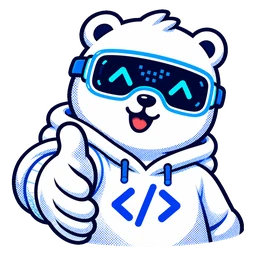
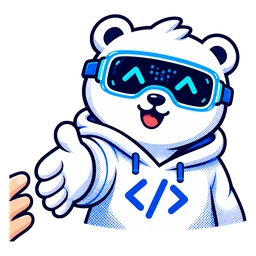
feat(art): 商談の絵を握手に、展示会の待ち画面のクマを他と同じ画風に作り直し、見本のページを preview でも開けるようにする

diff --git a/src/app/shell-sample/page.tsx b/src/app/shell-sample/page.tsx
@@ -1,5 +1,6 @@
 // 開発用の見本: 部署別の枠（7項目のサイドバー・経営ホーム・マーケ部のページ・スマホの下のボタン）
-// ⚠ 本番（NODE_ENV=production）では 404。数字はすべて仮のもの。API・DB・AI・ログインには触れない
+// ⚠ 本番（VERCEL_ENV=production）では 404。Vercel の preview（VERCEL_ENV=preview。Vercel のログインで守られる）と、手元の開発では開ける。
+//    Vercel 以外で NODE_ENV=production のときも 404。数字はすべて仮のもの。API・DB・AI・ログインには触れない
 import { notFound } from 'next/navigation'
 import DeptShellSample from '@/components/shell-next/DeptShellSample'
 
@@ -8,6 +9,8 @@ export const dynamic = 'force-dynamic'
 export const metadata = { title: '部署別の枠（見本）| ドヤAI' }
 
 export default function ShellSamplePage() {
-  if (process.env.NODE_ENV === 'production') notFound()
+  // 見本を開けるのは「手元の開発」と「Vercel の preview」だけ。本番は必ず 404
+  const isPreview = process.env.VERCEL_ENV === 'preview'
+  if (process.env.NODE_ENV === 'production' && !isPreview) notFound()
   return <DeptShellSample />
 }

diff --git a/src/components/ds/kun-src.ts b/src/components/ds/kun-src.ts
@@ -13,6 +13,7 @@ const HAS_256 = new Set<string>([
   // 2026-10-29 に足した絵（すべて 256px 版あり）
   'mini-hello', 'mini-point', 'mini-working', 'lead-marketing', 'lead-sales', 'lead-hr', 'lead-admin', 'waiting', 'report', 'todo', 'locked',
   'kpi-sales', 'kpi-incoming', 'kpi-spend', 'kpi-deals', 'kpi-hiring',
+  'paint-a', 'paint-b', 'paint-done',
   'tool-banner', 'tool-adimage', 'tool-persona', 'tool-asklink', 'tool-popup', 'tool-tenjikai', 'tool-aishodan', 'tool-doyalist', 'tool-promane', 'tool-shanai', 'tool-income',
 ])
 

diff --git a/docs/design/KUN-ART-PACK-2026-10-29.md b/docs/design/KUN-ART-PACK-2026-10-29.md
@@ -49,3 +49,10 @@ mic・calendar・write・survey・camera・search・chart・money・clock・hand
 
 すでに絵があり、新しく作らないもの: 勤怠（clock）・商談準備と AIO（search）・記事作成（write）・インタビュー（mic）・見積（write）・支出（money）・営業管理（handshake）・スライド（present）・人事（survey）。
 展示会の待ち画面のローラーのクマ（paint-a・paint-b・paint-done）は、今回は作り直さない（画風が今の20ポーズと違うと分かったら別に起こす）。
+
+## 2026-10-30 の直し（本人の「進めてください」）
+
+- kpi-deals（商談）: 親指を立てた手になっていたので、握手の手（画面の左から相手の手の先が見える）で作り直した。
+- 展示会の待ち画面のクマ（paint-a・paint-b・paint-done）: 他の絵と並べると、線が細く、網点も飾りもなく、画風がずれていた。同じ画風で作り直し、同じ名前で置き換えた（元の絵は取っておいていない。git の履歴から戻せる）。待ち画面（/ds-preview/working）で、壁の絵とのならびが崩れないことを確かめた。
+- 各ツールの空の画面: EmptyState が URL の最初の段からツールを判断し、固有の絵を出す（前日）。
+- 見本のページ（/shell-sample）は、Vercel の preview でも開けるようにした（本番は 404 のまま）。
